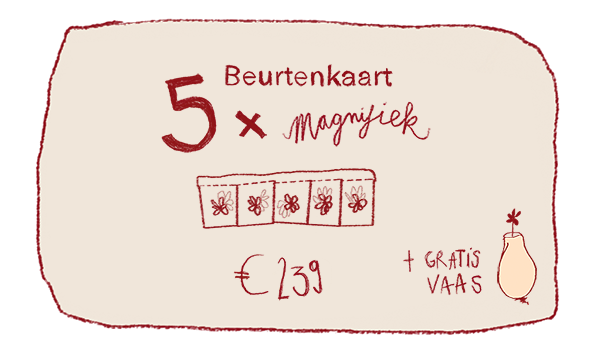
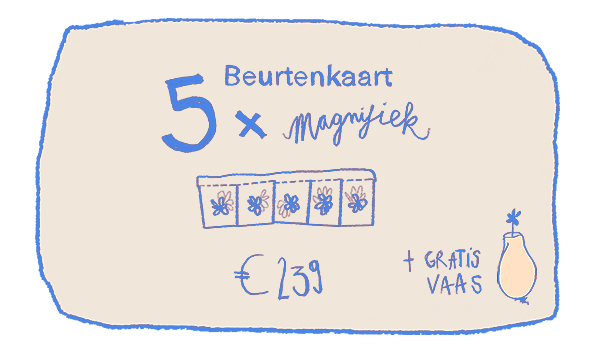
kleurtjes mooi gezet bij elke boeket

diff --git a/public/css/style.css b/public/css/style.css
@@ -638,9 +638,9 @@ fieldset.aantal input[type="number"] {
 fieldset.aantal input::placeholder {color: var(--color-text);}
 
 fieldset.aantal>div .plusmin {background-color: #efe5d9;}
-fieldset.aantal>div:nth-child(1) .plusmin>*, .fichkes.boeketten p:nth-child(1) button {border-color: #887f1e;}
-fieldset.aantal>div:nth-child(2) .plusmin>*, .fichkes.boeketten p:nth-child(2) button {border-color: #d0a965}
-fieldset.aantal>div:nth-child(3) .plusmin>*, .fichkes.boeketten p:nth-child(3) button {border-color: #9e3238;}
+fieldset.aantal>div:nth-of-type(1) .plusmin>*, .fichkes.boeketten p:nth-child(1) button {border-color: var(--color-schattig);}
+fieldset.aantal>div:nth-of-type(2) .plusmin>*, .fichkes.boeketten p:nth-child(2) button {border-color: var(--color-charmant)}
+fieldset.aantal>div:nth-of-type(3) .plusmin>*, .fichkes.boeketten p:nth-child(3) button {border-color: var(--color-magnifiek);}
 
 .aantal div.afbeelding {
     height: calc( (2* var(--height-line)));
@@ -667,6 +667,7 @@ label.inzetten:not(.active) {display: none;}
 
 fieldset.aantal #cadeau-prijs>input[type="number"] {
     width: calc(3 * var(--height-line));
+    border-color: var(--color-cadeau);
 }
 
 /* CHECKOUT */

diff --git a/public/css/default.css b/public/css/default.css
@@ -43,6 +43,10 @@
     --color-yellow: #e7b92d;
     --color-red: #e32138;
     --color-purple: #a77db3;
+    --color-schattig: #918b61;
+    --color-charmant: #d0a35d;
+    --color-magnifiek: #4681e6;
+    --color-cadeau: #820431;
 
     --font: "Mynerve", cursive;
     --font2: "DM Mono", monospace;

diff --git a/resources/views/bestelling/winkelmand.blade.php b/resources/views/bestelling/winkelmand.blade.php
@@ -119,8 +119,7 @@
                 {{-- <label for="cadeaubon" class="mailing">
                     <input type="checkbox" name="" id="cadeaubon">Stuur code door via mail <br class="mobile">(i.p.v. bon te komen halen)
                 </label> --}}
-                <br>
-                <p><i class="small">Codes van bonnen en beurtenkaarten worden via mail gestuurd en zijn 6 maanden geldig.</i></p>
+                <p style="margin-top: var(--gap-normal)"><i class="small">Codes van bonnen en beurtenkaarten worden via mail gestuurd en zijn 6 maanden geldig.</i></p>
             </fieldset>
             <fieldset class="vraag">
                 <p>Ik kom mijn bestelling ophalen op:</p>

diff --git a/app/Http/Controllers/PaymentController.php b/app/Http/Controllers/PaymentController.php
@@ -203,7 +203,7 @@ class PaymentController extends Controller
         $order->payed = true;
         $order->save();
 
-        Mail::to($order->client->email)->queue(new OrderConfirmed(
+        Mail::to($order->client->email)->send(new OrderConfirmed(
             $order,
             $dag,
             $datum,
